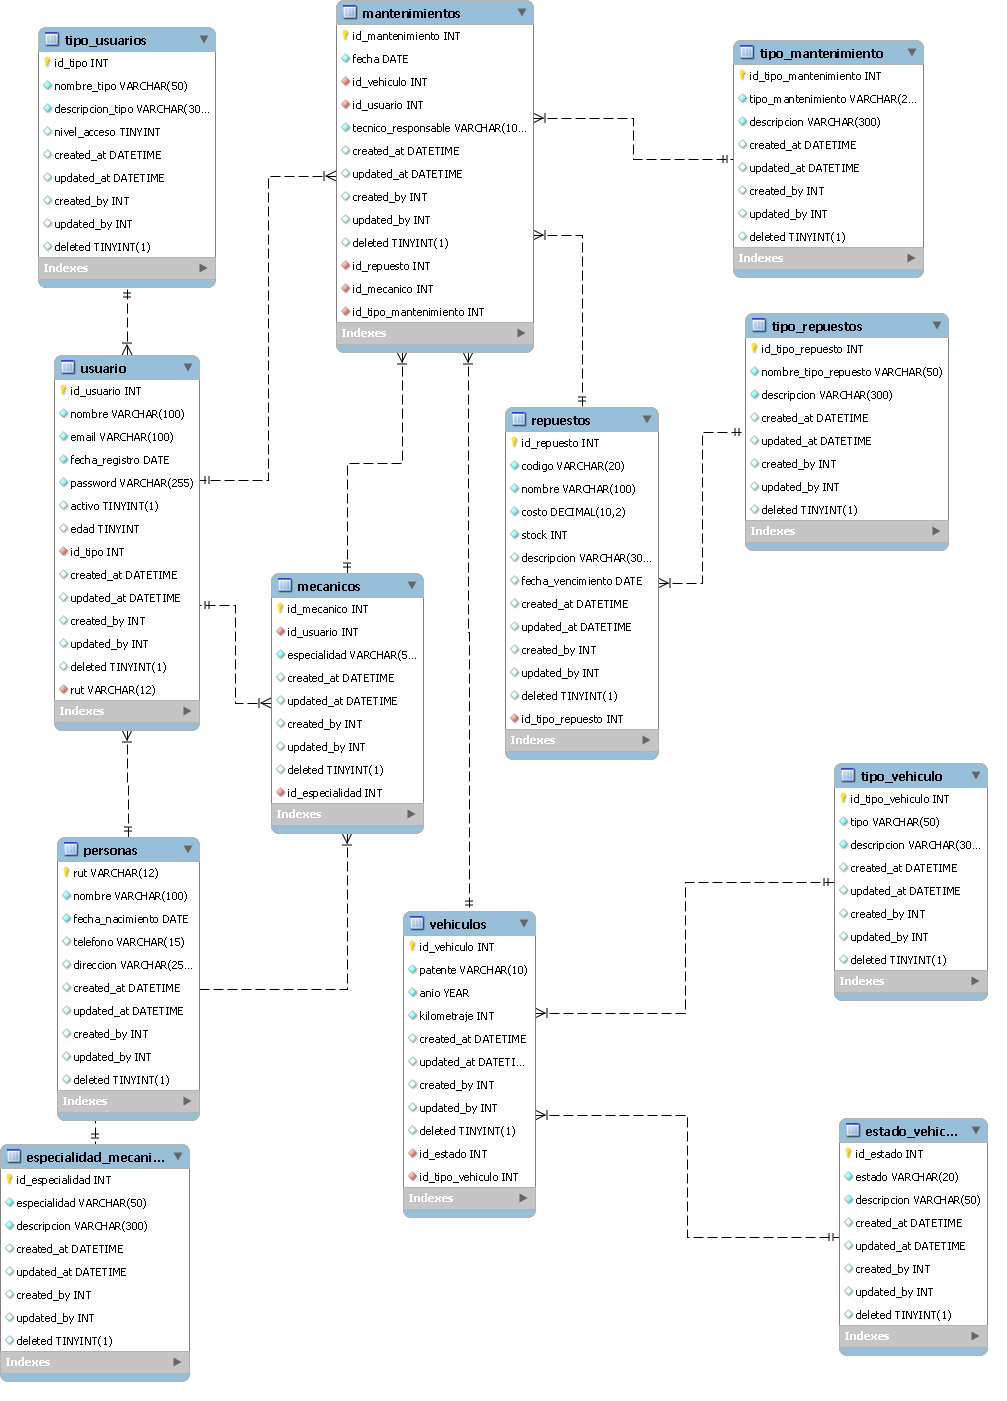
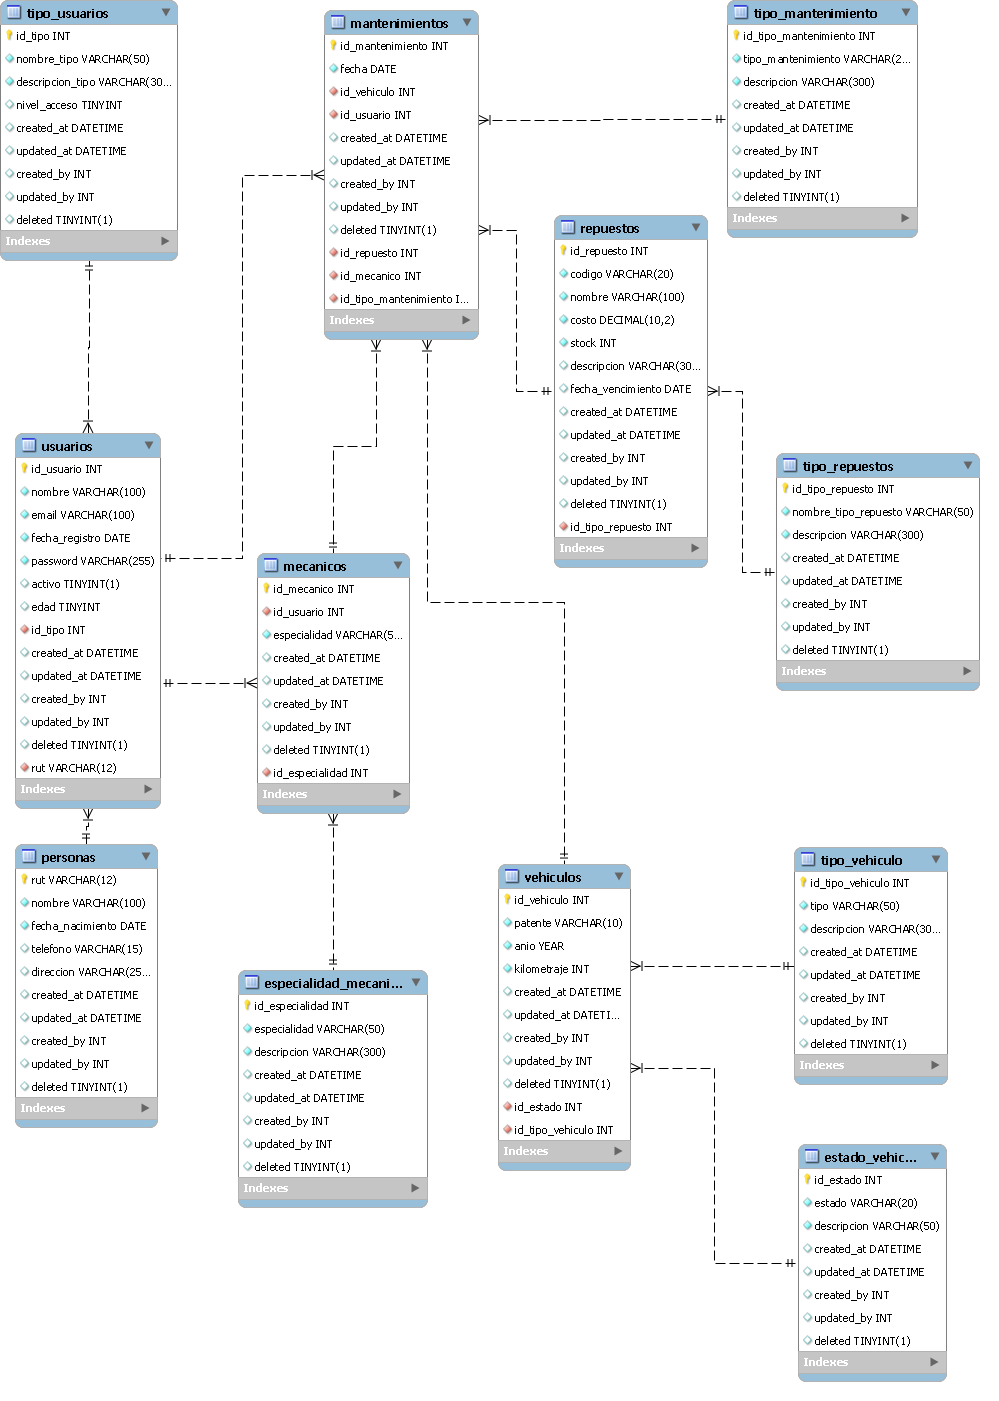
5

diff --git a/03 actividad sql/crear_sql.py b/03 actividad sql/crear_sql.py
@@ -65,7 +65,7 @@ try:
     
     # Crear tabla usuario si no existe
     cursor.execute("""
-        CREATE TABLE IF NOT EXISTS usuario (
+        CREATE TABLE IF NOT EXISTS usuarios (
             id_usuario INT AUTO_INCREMENT PRIMARY KEY,
             nombre VARCHAR(100) NOT NULL CHECK (CHAR_LENGTH(nombre) >= 3 AND nombre REGEXP '^[A-Za-z ]+$'),
             email VARCHAR(100) NOT NULL UNIQUE,
@@ -107,14 +107,13 @@ try:
             fecha DATE NOT NULL,
             id_vehiculo INT NOT NULL,
             id_usuario INT NOT NULL,
-            tecnico_responsable VARCHAR(100) NOT NULL,
             created_at DATETIME DEFAULT CURRENT_TIMESTAMP,
             updated_at DATETIME DEFAULT CURRENT_TIMESTAMP ON UPDATE CURRENT_TIMESTAMP,
             created_by INT,
             updated_by INT,
             deleted BOOLEAN DEFAULT FALSE,
             FOREIGN KEY (id_vehiculo) REFERENCES vehiculos(id_vehiculo),
-            FOREIGN KEY (id_usuario) REFERENCES usuario(id_usuario)
+            FOREIGN KEY (id_usuario) REFERENCES usuarios(id_usuario)
         )
     """)
     print("Tabla mantenimientos creada o ya existe.")
@@ -129,7 +128,7 @@ try:
             created_by INT,
             updated_by INT,
             deleted BOOLEAN DEFAULT FALSE,
-            FOREIGN KEY (id_usuario) REFERENCES usuario(id_usuario)            
+            FOREIGN KEY (id_usuario) REFERENCES usuarios(id_usuario)            
        )
     """)
     print("Tabla mecanicos creada o ya existe.")
@@ -205,7 +204,7 @@ try:
     print("Tabla personas creada o ya existe.")
     # Alter table usuario para añadir rut
     cursor.execute("""
-        ALTER TABLE usuario
+        ALTER TABLE usuarios
         ADD COLUMN rut VARCHAR(12) NOT NULL UNIQUE,
         ADD FOREIGN KEY (rut) REFERENCES personas(rut)
     """)

diff --git a/Sistema de Gestion de Alumnos y Cursos/Alumnos y Cursos.py b/Sistema de Gestion de Alumnos y Cursos/Alumnos y Cursos.py
@@ -242,10 +242,31 @@ def agregar_alumno():
 
 
 def ver_cursos():
+
+
 def opcion1():
     return Agregar_curso()
 def opcion2():
     return agregar_alumno()
+
+
+
+
+
+
+
+
+
+
+
+
+
+
+
+
+
+
+
 
 
 def Menú_Principal():
